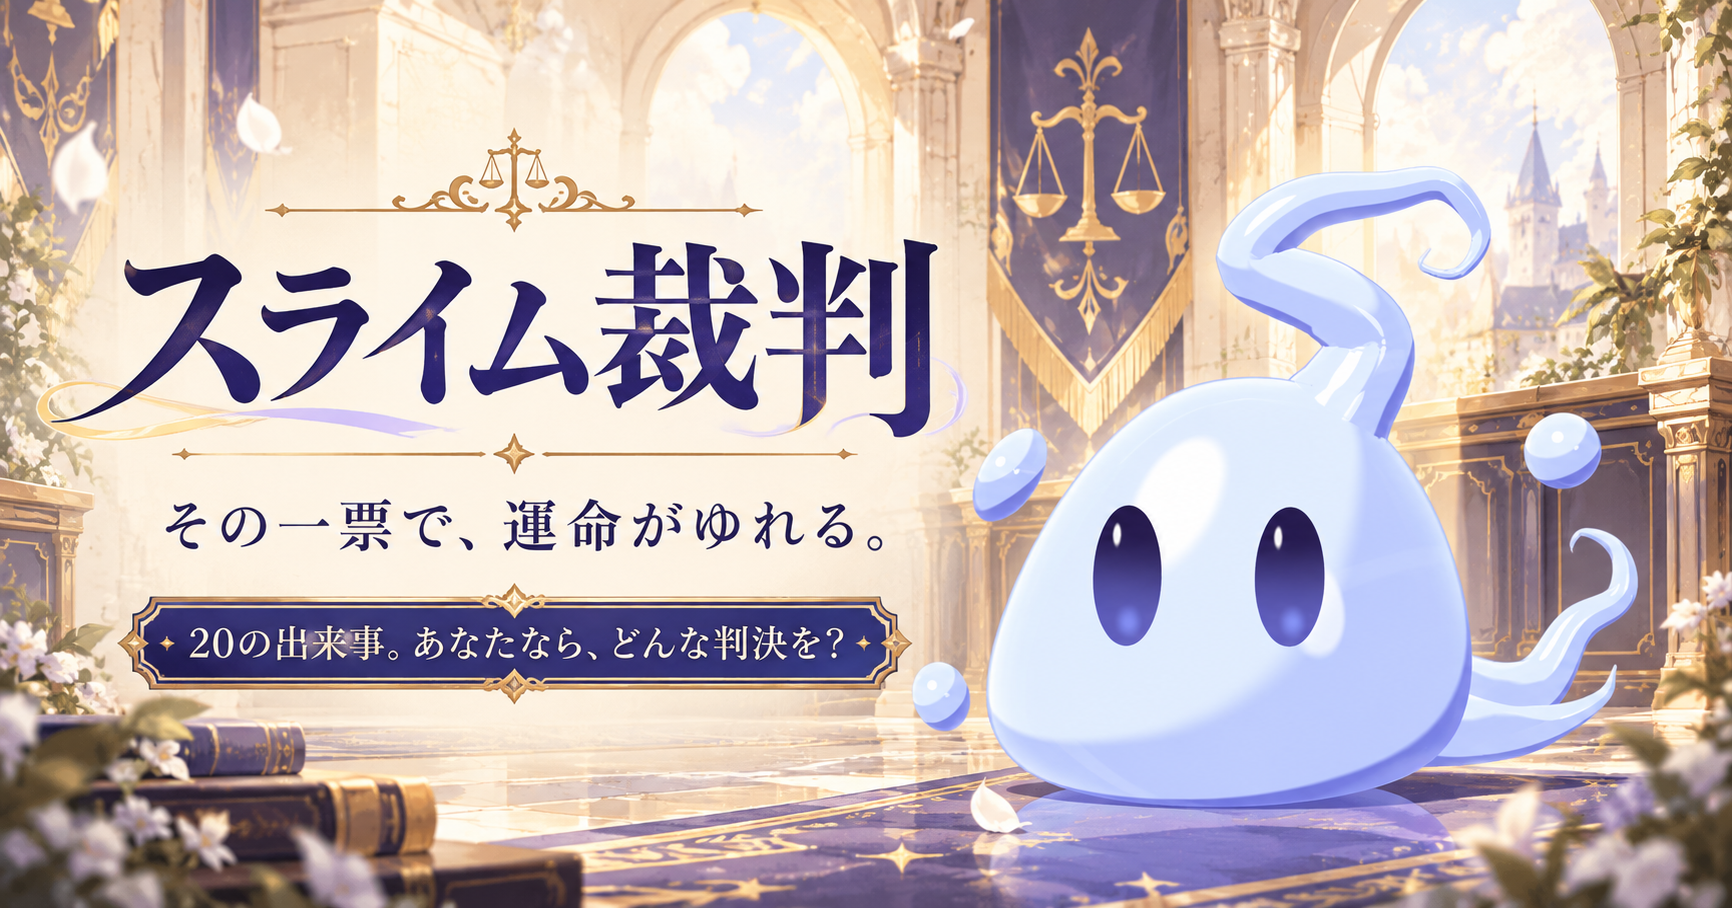
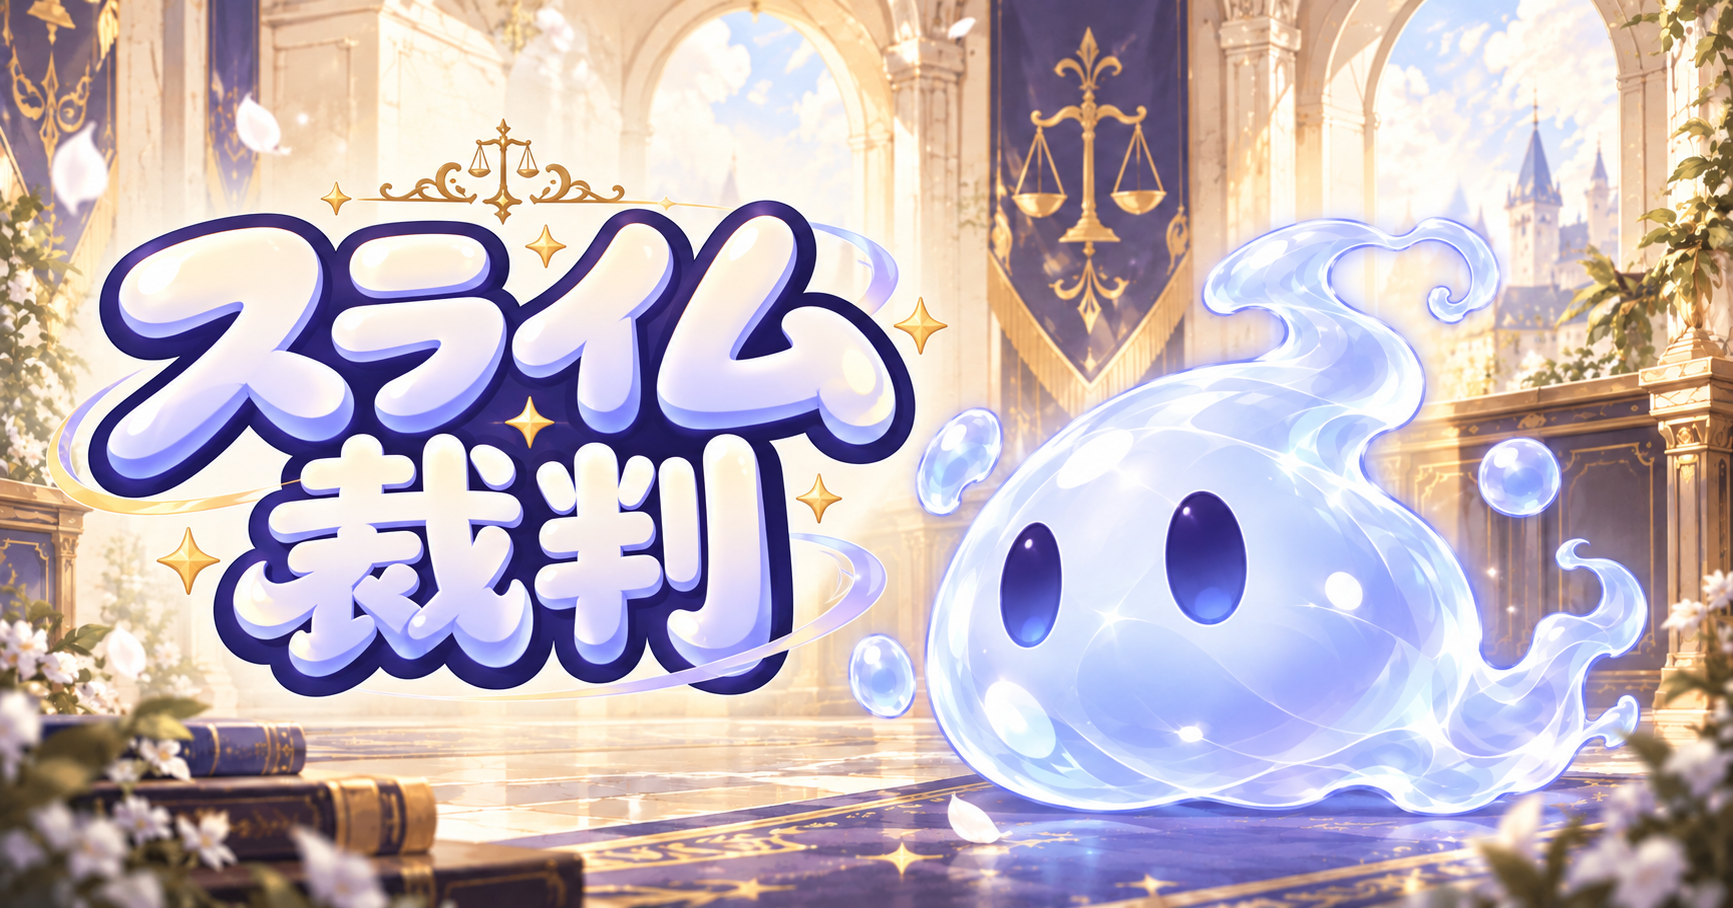
design: サムネイルをポップなタイトルと参照準拠の3Dスライムへ更新

diff --git a/index.html b/index.html
@@ -10,18 +10,18 @@
 <meta property="og:type" content="website" />
 <meta property="og:locale" content="ja_JP" />
 <meta property="og:site_name" content="スライム裁判" />
-<meta property="og:title" content="スライム裁判 — その一票で、運命がゆれる。" />
+<meta property="og:title" content="スライム裁判" />
 <meta property="og:description" content="人を傷つけた。人を救った。何も語らないスライムの20の出来事に、あなたならどんな判決を？" />
 <meta property="og:url" content="https://chameleonjp-lab.github.io/suraimusaiban/" />
 <meta property="og:image" content="https://chameleonjp-lab.github.io/suraimusaiban/social-card.png" />
-<meta property="og:image:width" content="1732" />
+<meta property="og:image:width" content="1733" />
 <meta property="og:image:height" content="908" />
-<meta property="og:image:alt" content="スライム裁判。その一票で、運命がゆれる。法廷で静かに待つ青いスライム。" />
+<meta property="og:image:alt" content="丸く太い文字の「スライム裁判」と、法廷にいる淡い青紫色のスライムの3Dイラスト。" />
 <meta name="twitter:card" content="summary_large_image" />
-<meta name="twitter:title" content="スライム裁判 — その一票で、運命がゆれる。" />
+<meta name="twitter:title" content="スライム裁判" />
 <meta name="twitter:description" content="20の出来事。あなたなら、どんな判決を？" />
 <meta name="twitter:image" content="https://chameleonjp-lab.github.io/suraimusaiban/social-card.png" />
-<meta name="twitter:image:alt" content="スライム裁判。その一票で、運命がゆれる。法廷で静かに待つ青いスライム。" />
+<meta name="twitter:image:alt" content="丸く太い文字の「スライム裁判」と、法廷にいる淡い青紫色のスライムの3Dイラスト。" />
 <title>スライム裁判 — 言葉のない被告人</title>
 </head>
 <body><div id="app"></div><script type="module" src="/src/main.ts"></script></body>

diff --git a/docs/qa/social-card-20261024.md b/docs/qa/social-card-20261024.md
@@ -1,0 +1,56 @@
+# サムネイル更新の確認記録
+
+2026-10-24（日本時間）。対象：[public/social-card.png](../../public/social-card.png)。
+
+## 依頼と変更内容
+
+- 画像内の文字は「スライム裁判」だけ。旧画像の説明文2つを削除し、丸く太いポップな書体へ変更。
+- 添付された正面・部位資料を基準に、丸い淡青紫の体、藍色の縦長の目、頭の渦、後ろへ流れる体、しずくを3Dイラストで表現。口や眉、手足を追加していない。
+- 温かい中世風の法廷背景を保つ。SNS向けのタイトル情報も「スライム裁判」に統一し、画像の説明文を新しい内容に合わせた。
+
+内蔵の画像生成機能で既存画像を編集し、生成したPNGを再加工せず保存した。Three.jsモデルそのもののレンダリングではなく、添付のキャラクターデザインを参照した3D表現の画像である。
+
+## 画像の確認
+
+生成画像の寸法は1733×908、RGB形式の不透明PNG、2,064,711 bytes。旧画像は1732×908だったため、共有用の幅情報と既存の公開成果物検証も1733へ合わせた。画像ファイルのURLと高さは同じ。
+
+出力画像を目視し、6文字の表記、余計な文章がないこと、文字とスライムの見切れ、参照資料との対応を確認した。PNGの形式・寸法・容量、生成出力とのバイト一致、ビルド後のコピー、共有用情報との整合も確認した。
+
+| 確認 | 結果 |
+| --- | --- |
+| `npm run build` | PASS。型検査と公開用ビルドが完了 |
+| `npm run check:publication` | PASS。1733×908、正式URL、サブパス、公開版情報を確認 |
+| `python3 scripts/validate-docs.py` | PASS。文書内リンク95件を含む既存検証が合格 |
+| ビルド後の画像・共有用情報 | PASS。PNGのバイト一致、タイトル、幅・高さを別途照合 |
+| `git diff --check` | PASS |
+
[1 lines of base64/hex data omitted]
+
+ローカルブラウザで390pxの縮小表示も試みたが、Playwrightのブラウザ実行ファイルが未導入だったため、この確認は未実施。実機でのSNS投稿・表示キャッシュの更新確認も今回のローカル検証に含まない。ゲームの処理とDBは変更していない。
+
+## 使用した参照画像
+
+- 編集対象：更新前の `public/social-card.png`。
+- 主な造形基準：[正面寄り](../references/slime/slime-front.jpeg)。
+- 部位・質感の基準：[多方向の資料](../references/slime/slime-reference-sheet.jpeg)。
+
+## 画像生成時のプロンプト
+
+方式：内蔵の画像生成機能（API/CLIへの切替なし）。以下を指定し、出力画像の実測寸法に合わせて共有用の情報を設定した。
+
+```text
+Use case: precise-object-edit / stylized-concept.
+Asset: the browser game's existing social sharing thumbnail public/social-card.png.
+Input image 1 is the edit target and the source for the warm fantasy medieval courtroom background and wide composition.
+Input image 2 is the PRIMARY character design reference.
+Input image 3 is the PRIMARY multi-view character detail reference.
+Edit image 1 into a finished, playful, polished game thumbnail.
+
+TEXT: The ONLY visible lettering anywhere in the finished image must be exactly the six Japanese characters 「スライム裁判」, spelled ス・ラ・イ・ム・裁・判, without quotation marks, punctuation or any additional words. Delete both existing lines of smaller text and their caption plaque. Replace the current formal serif title with large, thick, rounded, bouncy Japanese display lettering, like a charming premium casual fantasy game logo. Give the letters soft rounded corners, a clear deep indigo outline and light cream / very pale lavender faces with a restrained soft dimensional shadow. The kanji 裁判 must be correctly formed and easily readable. Make the title joyful and prominent at thumbnail size; it may wrap into two balanced lines if useful. No subtitle, tagline, numbers, English, URLs, watermark, or tiny decorative writing on books.
+
+CHARACTER: Replace image 1's generic simplified slime with a fully three-dimensional anime-style rendering of the EXACT creature designed in images 2 and 3. Preserve their broad rounded jelly body, pale icy blue / lavender translucent material, soft flowing internal highlights, two dark indigo vertical oval eyes, NO mouth, NO eyebrows, NO limbs, the soft S-shaped fluid crest with inward curled tip, the flowing rounded side/rear tail folds, and three small floating fluid droplets belonging to the same creature. Match the original silhouette and proportions rather than keeping image 1's tall stiff ribbon crest and angular opaque body. The character must convincingly have volume, soft contact shadows, smooth glossy white highlight patches, lavender-blue rim lighting and subtle translucency; not a flat illustration, not an origami shape, not a photograph of a toy. Keep the entire head curl and body tail in frame. Neutral, adorable, inscrutable expression; no smile, horns, halo, wings, gavel held by the slime or additional characters.
+
+COMPOSITION: Preserve the wide warm medieval courtroom setting from image 1: stone arches, sunlit windows, wooden courtroom furniture and indigo/gold drapery. Simplify areas behind the title to keep the rounded lettering readable. Retain the title on the left and the single large slime on the right, with balanced spacing and generous safe margins. The slime and title are the two focal points. No UI buttons, charts, panels or caption ribbons.
+OUTPUT: exactly 1732 pixels wide by 908 pixels tall, same approximately 1.91:1 landscape aspect ratio as input image 1, full-bleed opaque PNG. No border. Only change the title typography/remove captions and replace the slime as described; maintain the overall background atmosphere.
+```
+

diff --git a/docs/qa/sharing-publication.md b/docs/qa/sharing-publication.md
@@ -5,7 +5,7 @@
 ## 実装と証拠
 
 - ホームの「このゲームをXでシェア」は20件の裁判への紹介文。結果の「今回の判決をXでシェア」は本人の判決・符号付き合計点を含みます。どちらも正式URLだけを使い、クエリ・回答ID・参加者IDを投稿リンクへ入れません。
-- [SNS画像](../../public/social-card.png)は完成モデルを参照して生成した1732×908の不透明PNG（約2MB）。OGP・Twitter `summary_large_image`・日本語altを設定しています。
+- [SNS画像](../../public/social-card.png)は参照資料のスライムを3D表現にして生成した1733×908の不透明PNG（約2MB）。OGP・Twitter `summary_large_image`・日本語altを設定しています。2026-10-24に書体をポップにし、画像内の文字を「スライム裁判」だけに変更しました。[更新時の確認記録](social-card-20261024.md)
 - [ホームの追加ボタン](screenshots/home-share.png)を縦390pxで確認しました。画像保存・端末共有・投稿文コピーも本人結果に合わせています。
 - `config/production.json` はランキングと同じSupabase URL・publishable keyを使います。管理キーは含みません。共有プロジェクトへ専用名の表・RPC・非公開schemaを作り、元のランキング表と権限を変更していません。
 - ローカルの型検査、単体84件、実PostgreSQL/Auth/RESTのDB17件、Chromium27件（1.1分）が合格しました。DB試験には、他ゲームのprivate schema権限を保ったまま導入できることを追加しています。
